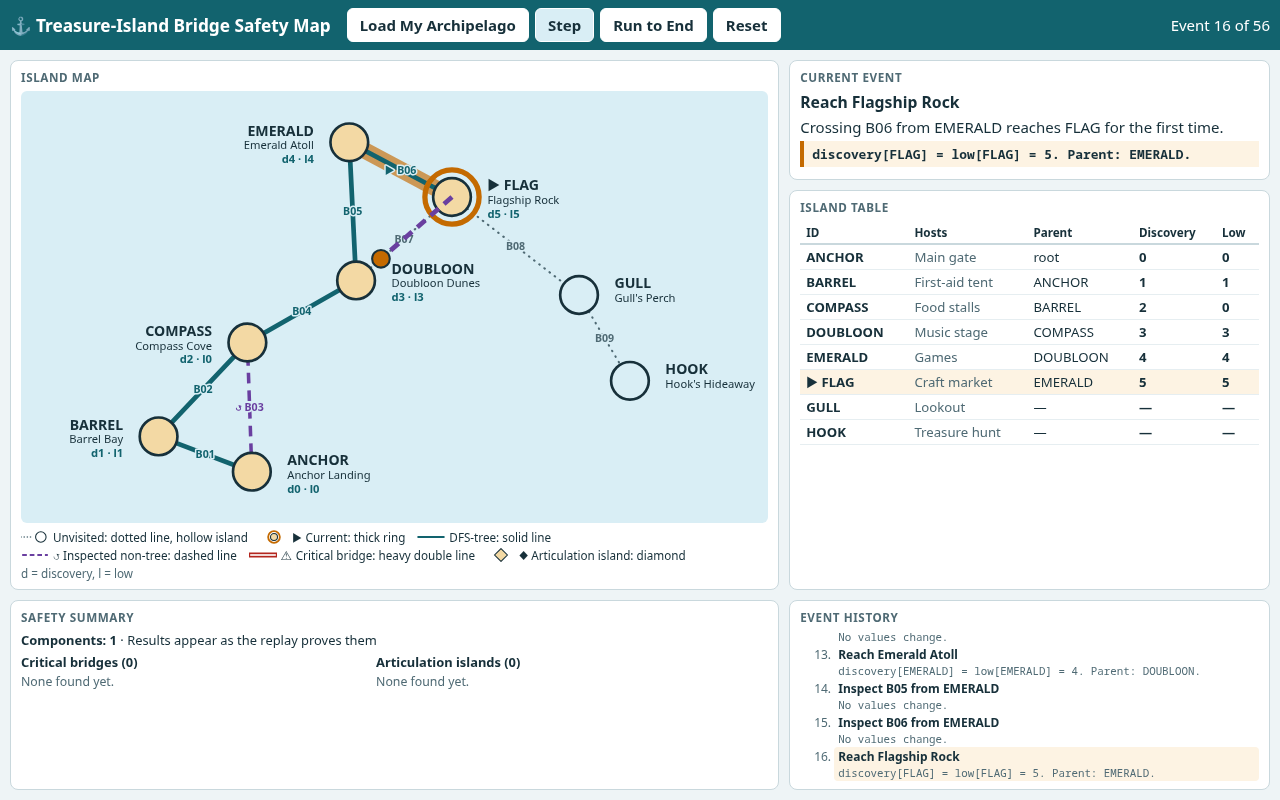
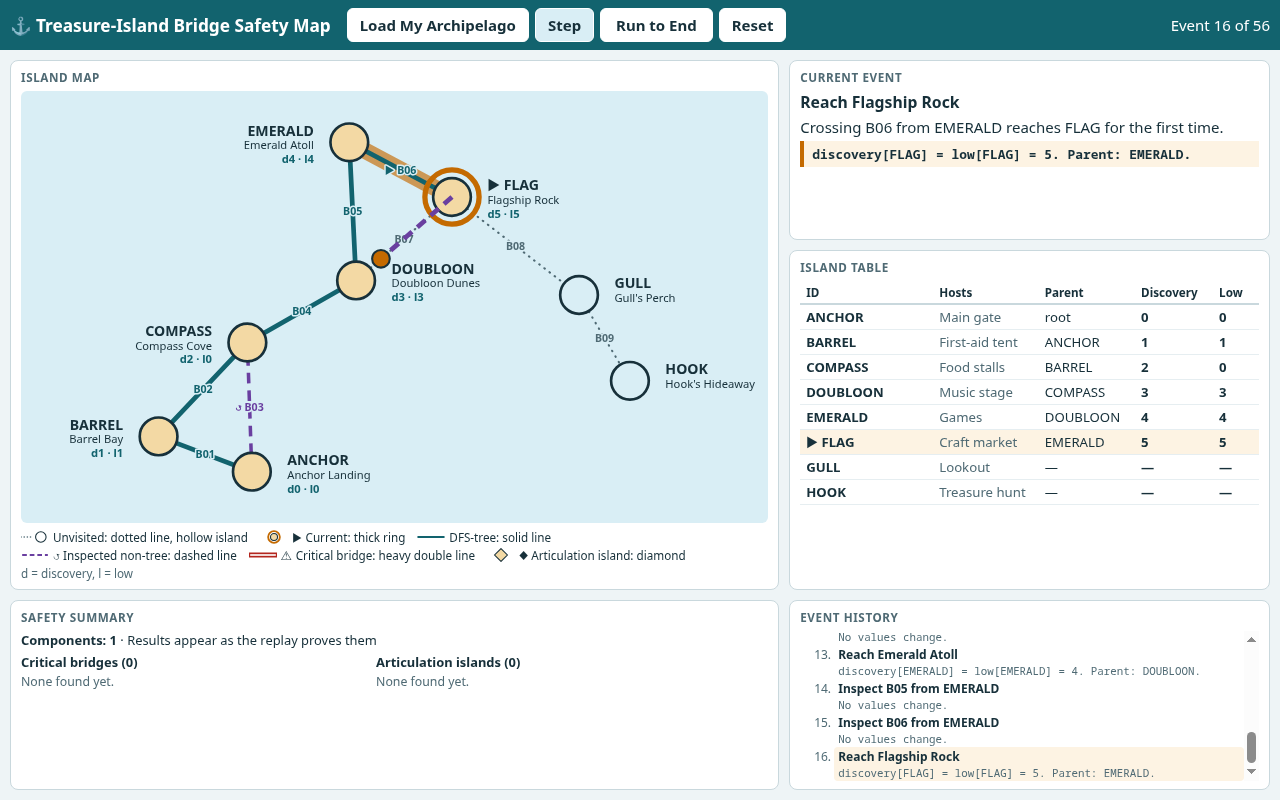
Keep every box still during a replay
Checking in real Chrome showed the page shifting as it stepped: the current
event box changed height, pushing the island table up and down, and the table's
columns moved as values filled in. A volunteer's eye has to find everything
again after each step, which works against explaining a result.

Measured across a replay, the desktop event and table boxes moved and the table
had 7 different column layouts. Stacked on a phone or tablet, the event, table,
summary and history boxes all moved, and the history grew. Run to End's long
status message wrapped the top bar on narrower windows, moving everything else.

Why these choices:
- Fixed row heights rather than min-height on one box: the rule is that no box
  moves at any step, so the grid sets the sizes and content can't change them.
  The heights are the longest event text measured at each width.
- overflow on the event box: another system font may need more room than was
  measured here, and scrolling inside the box keeps the layout still.
- table-layout: fixed with set widths: automatic layout resizes columns from
  their contents, which is what made them move.
- Hide the optional Hosts column up to 1239px wide as well as on phones: in that
  narrow column it wrapped onto two lines and pushed island rows out of view.
- Tighter rows on short windows: at 1366x650 the table now shows all 8 islands
  without scrolling, where it was 34px short.
- Reserved heights when stacked: there the page scrolls, so a growing box would
[…]

Changed region(s): [[0.625, 0.25, 1.0, 0.625], [0.4688, 0.0, 0.625, 0.0625], [0.9688, 0.9062, 1.0, 0.9688]]

diff --git a/styles.css b/styles.css
@@ -101,6 +101,11 @@ button:hover:not(:disabled) {
   background: var(--button-hover);
 }
 
+/* The label changes while playing, and the buttons beside it must not move. */
+#run {
+  min-width: 7.5rem;
+}
+
 button:focus-visible {
   outline: 3px solid #ffc857;
   outline-offset: 2px;
@@ -129,7 +134,8 @@ button:disabled {
     flex: 1;
     min-height: 0;
     grid-template-columns: minmax(0, 1.6fr) minmax(0, 1fr);
-    grid-template-rows: auto minmax(0, 1fr) 190px;
+    /* Fixed heights, so no box moves or resizes as the replay steps. The first row fits the longest event text. */
+    grid-template-rows: 140px minmax(0, 1fr) 190px;
     grid-template-areas:
       'map event'
       'map table'
@@ -142,6 +148,7 @@ button:disabled {
 
   .event-panel {
     grid-area: event;
+    overflow: auto;
   }
 
   .table-panel {
@@ -157,6 +164,13 @@ button:disabled {
   }
 }
 
+/* A narrower column wraps the event text onto more lines. */
+@media (min-width: 1000px) and (max-width: 1365px) {
+  .layout {
+    grid-template-rows: 180px minmax(0, 1fr) 190px;
+  }
+}
+
 .panel {
   display: flex;
   flex-direction: column;
@@ -166,6 +180,27 @@ button:disabled {
   border: 1px solid var(--line);
   border-radius: 8px;
   background: var(--panel);
+}
+
+/* Stacked panels reserve room for their longest text, so the panels below them don't move. */
+@media (max-width: 999px) {
+  .event-panel {
+    min-height: 140px;
+  }
+
+  .summary-panel {
+    min-height: 229px;
+  }
+}
+
+@media (max-width: 520px) {
+  .event-panel {
+    min-height: 200px;
+  }
+
+  .summary-panel {
+    min-height: 294px;
+  }
 }
 
 h2 {
@@ -429,10 +464,32 @@ h2 {
 }
 
 /* Island table */
+/* Fixed column widths, so the columns don't shift as values fill in. */
 table {
   width: 100%;
   border-collapse: collapse;
   font-size: 0.88rem;
+  table-layout: fixed;
+}
+
+th:nth-child(1) {
+  width: 29%;
+}
+
+th:nth-child(2) {
+  width: 23%;
+}
+
+th:nth-child(3) {
+  width: 21%;
+}
+
+th:nth-child(4) {
+  width: 17%;
+}
+
+th:nth-child(5) {
+  width: 10%;
 }
 
 th {
@@ -468,8 +525,16 @@ td {
   background: var(--highlight);
 }
 
-/* On a phone the required columns must fit, so the optional one gives way. */
-@media (max-width: 520px) {
+/* A short laptop window still shows every island without scrolling. */
+@media (min-width: 1000px) and (max-height: 720px) {
+  th,
+  td {
+    padding-block: 1px;
+  }
+}
+
+/* When the table is narrow the required columns must fit, so the optional one gives way. */
+@media (max-width: 520px), (min-width: 1000px) and (max-width: 1239px) {
   .hosts-column {
     display: none;
   }
@@ -525,16 +590,20 @@ h3 {
 }
 
 /* Event history */
+/* The gutter keeps the text the same width when the scrollbar first appears. */
 #history {
-  max-height: 280px;
+  flex: none;
+  height: 280px;
   margin: 0;
   padding-left: 34px;
   font-size: 0.8rem;
+  scrollbar-gutter: stable;
 }
 
 @media (min-width: 1000px) {
   #history {
-    max-height: none;
+    flex: 1;
+    height: auto;
   }
 }
 

diff --git a/src/ui/main.js b/src/ui/main.js
@@ -28,13 +28,8 @@ function updateControls() {
   buttons.step.disabled = !graph || playing || atEnd;
   buttons.run.disabled = !graph || (atEnd && !playing);
   buttons.reset.disabled = !graph;
-  if (!graph) {
-    progress.textContent = 'No map loaded';
-  } else if (playing) {
-    progress.textContent = `Event ${shownPosition + 1} of ${total} · playing, press Run to End again to skip`;
-  } else {
-    progress.textContent = `Event ${shownPosition + 1} of ${total}`;
-  }
+  buttons.run.textContent = playing ? 'Skip to End' : 'Run to End';
+  progress.textContent = graph ? `Event ${shownPosition + 1} of ${total}` : 'No map loaded';
 }
 
 function render() {
